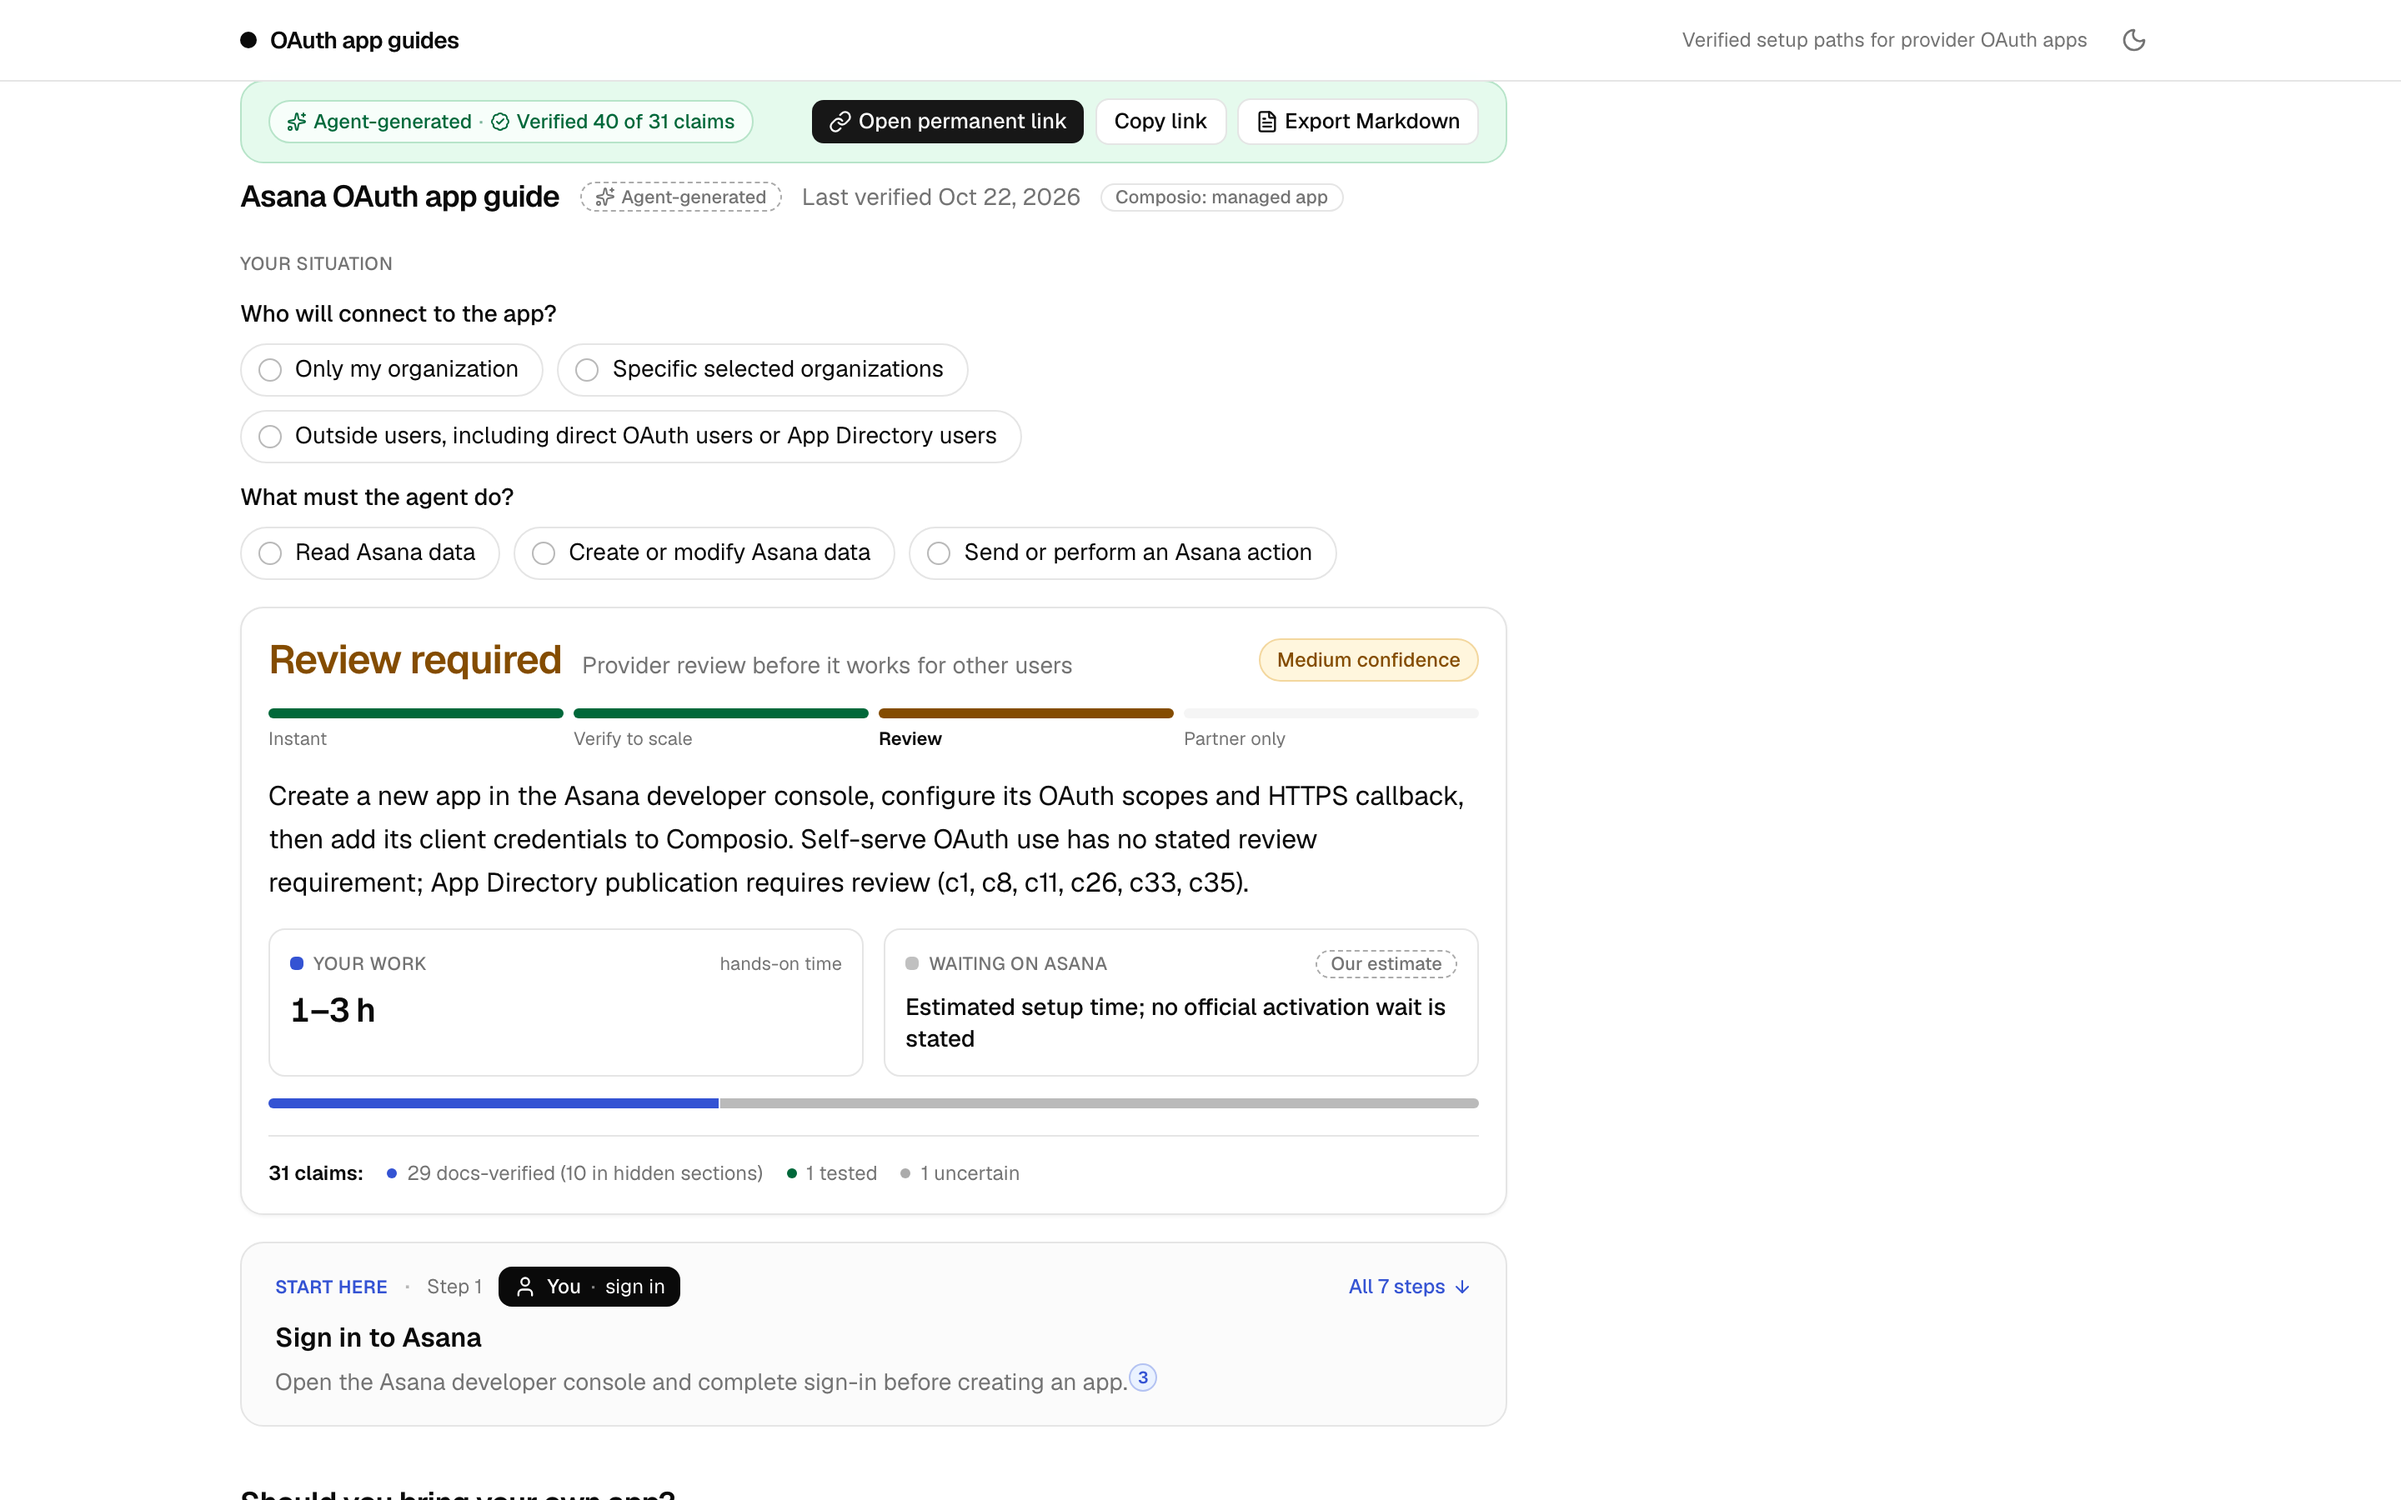
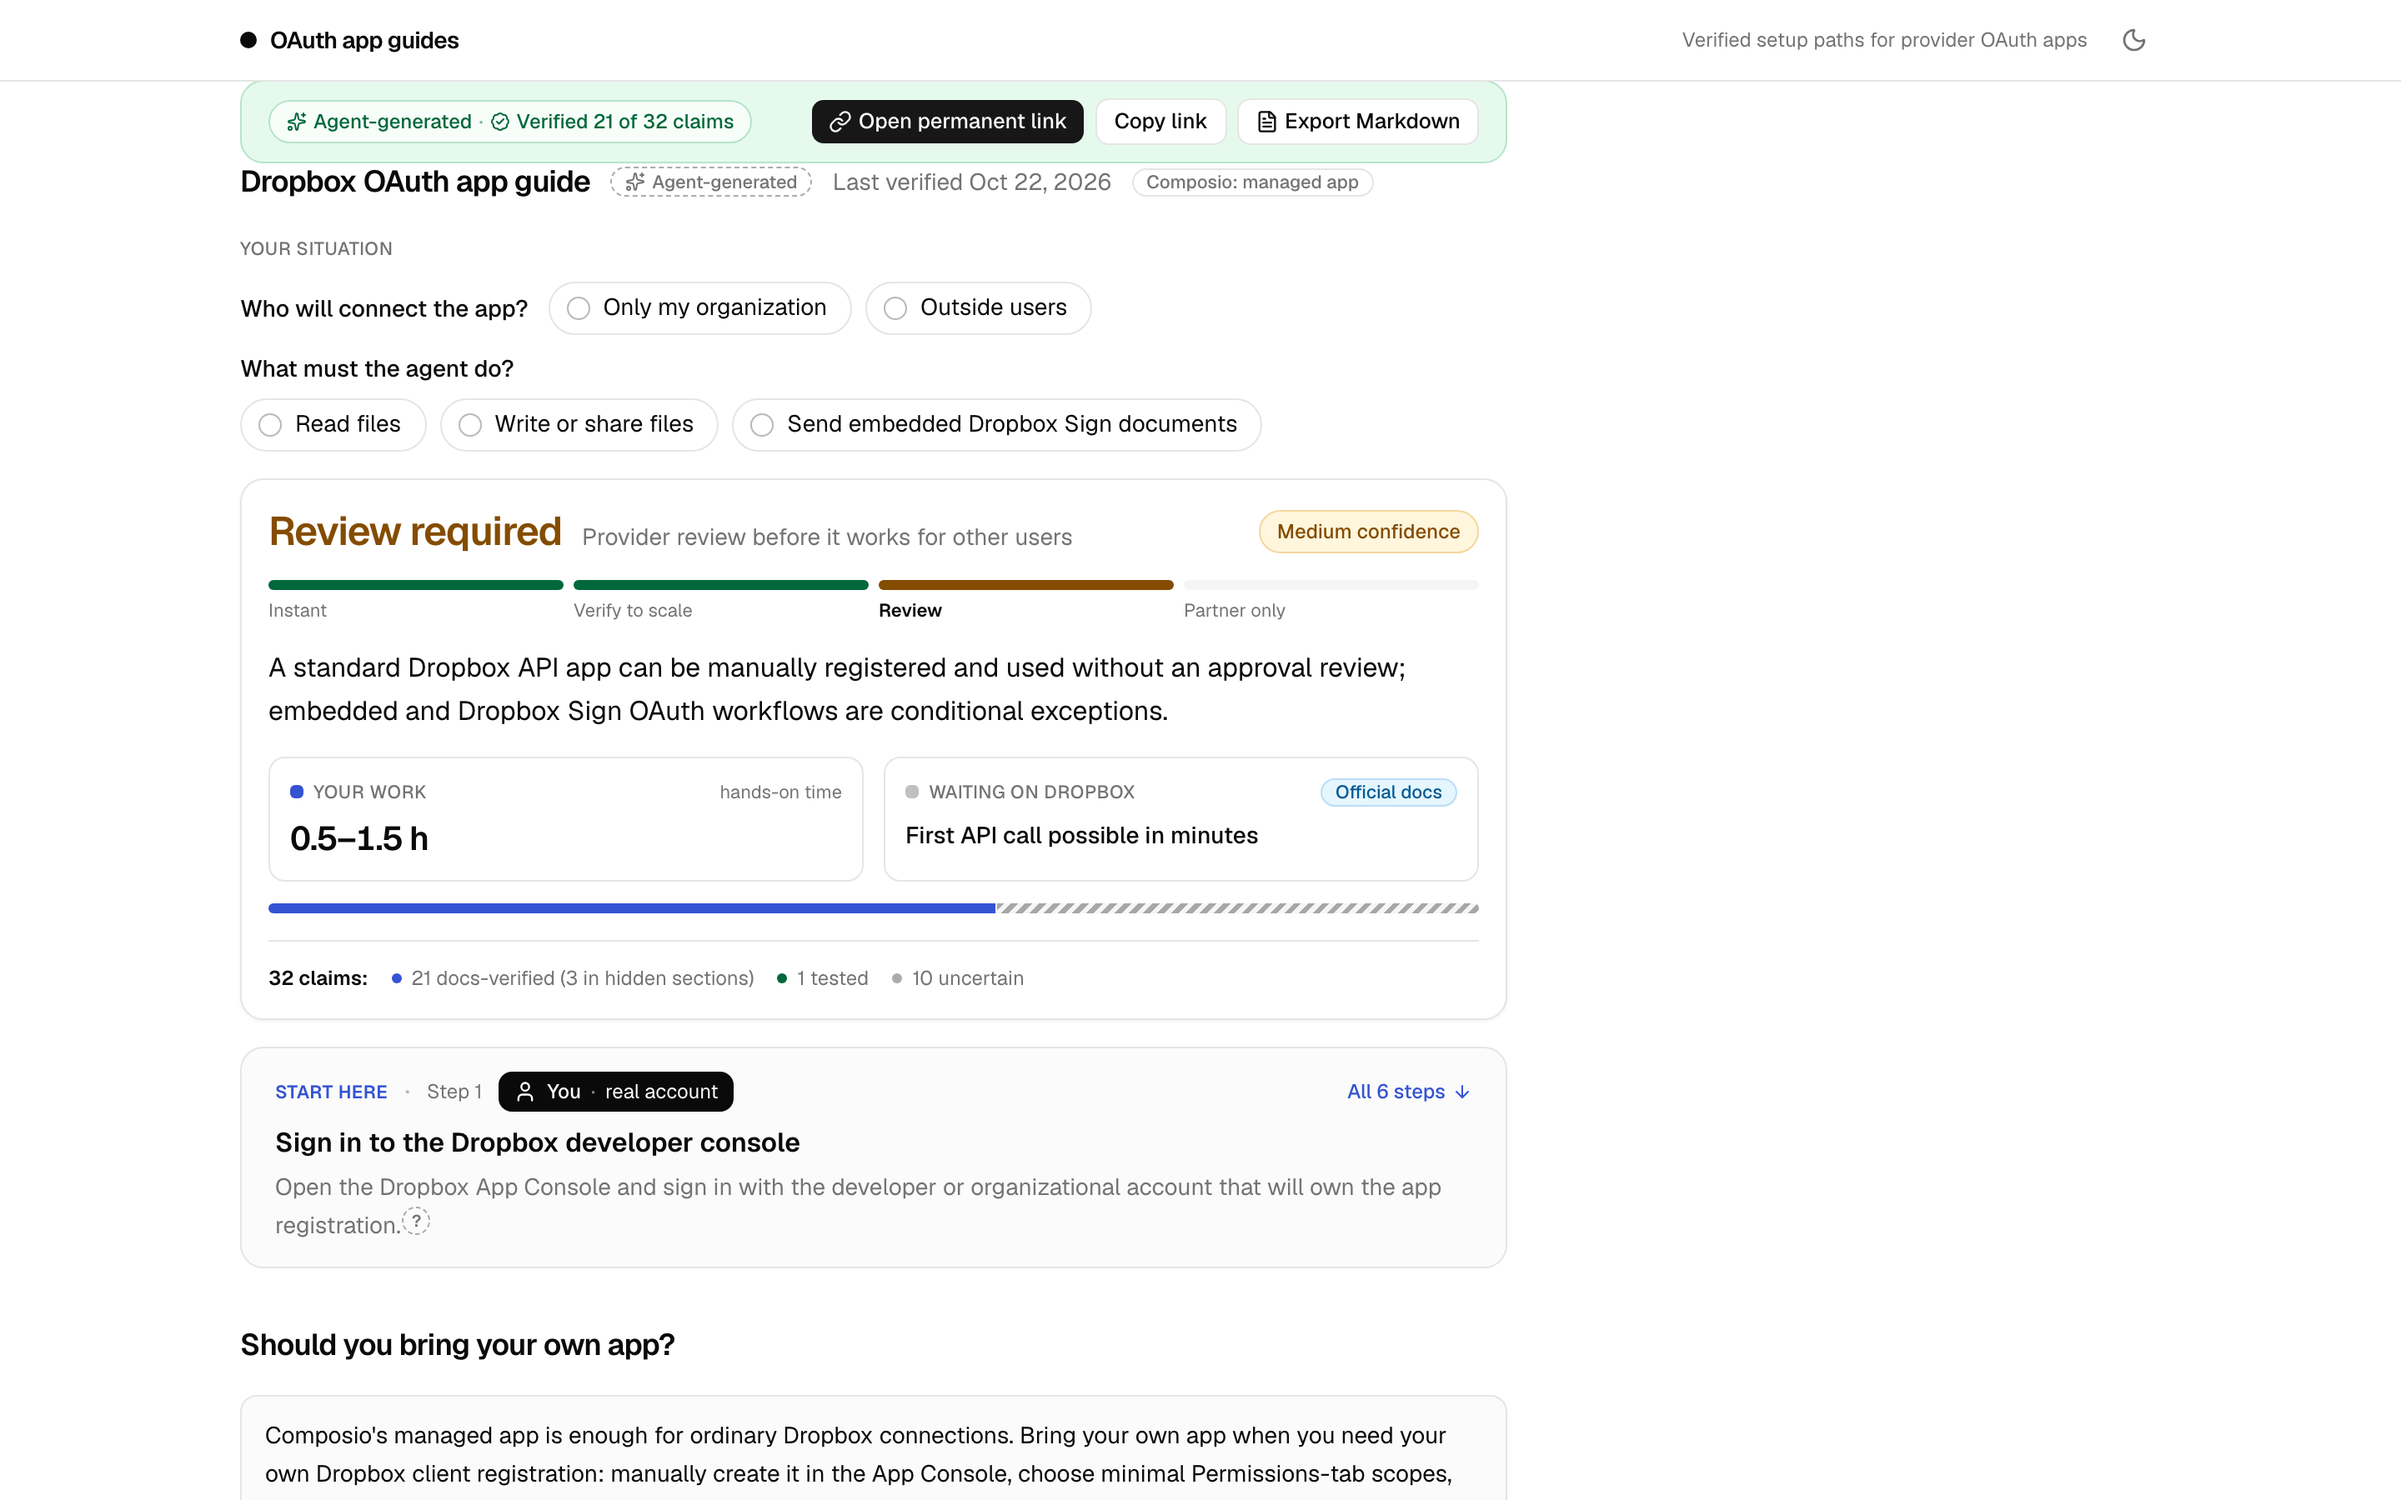
Final screenshots and README captions; note cautious tier rule

Changed region(s): [[0.0938, 0.0622, 0.625, 1.0], [0.5625, 0.84, 0.5938, 0.8711]]

diff --git a/README.md b/README.md
@@ -37,7 +37,7 @@ That's where developers get stuck. The answer depends on their situation (intern
 | Ask this guide | Home and catalog |
 |---|---|
 | ![Ask this guide](docs/screenshots/ask-this-guide.png) | ![Home](docs/screenshots/home.png) |
-| **Live generation (Asana, never researched)** | **Finished guide hand-off** |
+| **Live generation (Dropbox, never researched)** | **Finished guide hand-off (64 s)** |
 | ![Generation running](docs/screenshots/generate-running.png) | ![Generation done](docs/screenshots/generate-done.png) |
 
 ## Evidence model: the core decision
@@ -112,6 +112,7 @@ Full details are in [`docs/VERIFICATION.md`](docs/VERIFICATION.md).
 - Generation takes about 1 to 1.5 minutes. Rarely, a run ends in a clearly labeled fallback draft rather than hanging.
 - On production we twice saw the progress stream to the browser go silent while the run kept going on the server (Asana). The root cause is unproven. The stream is now exception-proof, and the page recovers by polling the run status and loading the published guide.
 - Only free models are offered in the demo. The server rejects any model not on its free allow-list.
+- Tier rules lean cautious. When any common path needs review, the tier says "Review required" even if the basic path doesn't (Dropbox: a standard app is self-serve, but Dropbox Sign workflows need review). The summary and the situation toggles explain the difference.
 - Production runs on Vercel's Python runtime, which has no Chromium. Docs that render only with JavaScript, and sign-in redirects done in JavaScript, may show as UNCERTAIN there; they work locally with Playwright installed.
 - Generated guides live in the function's temporary storage, so a **permalink to a generated guide can expire** on a cold start. Curated guides are permanent.
 - Free-model rate limits apply (about 20 requests per minute shared), and generations are limited to 30 per IP per 10 minutes.
